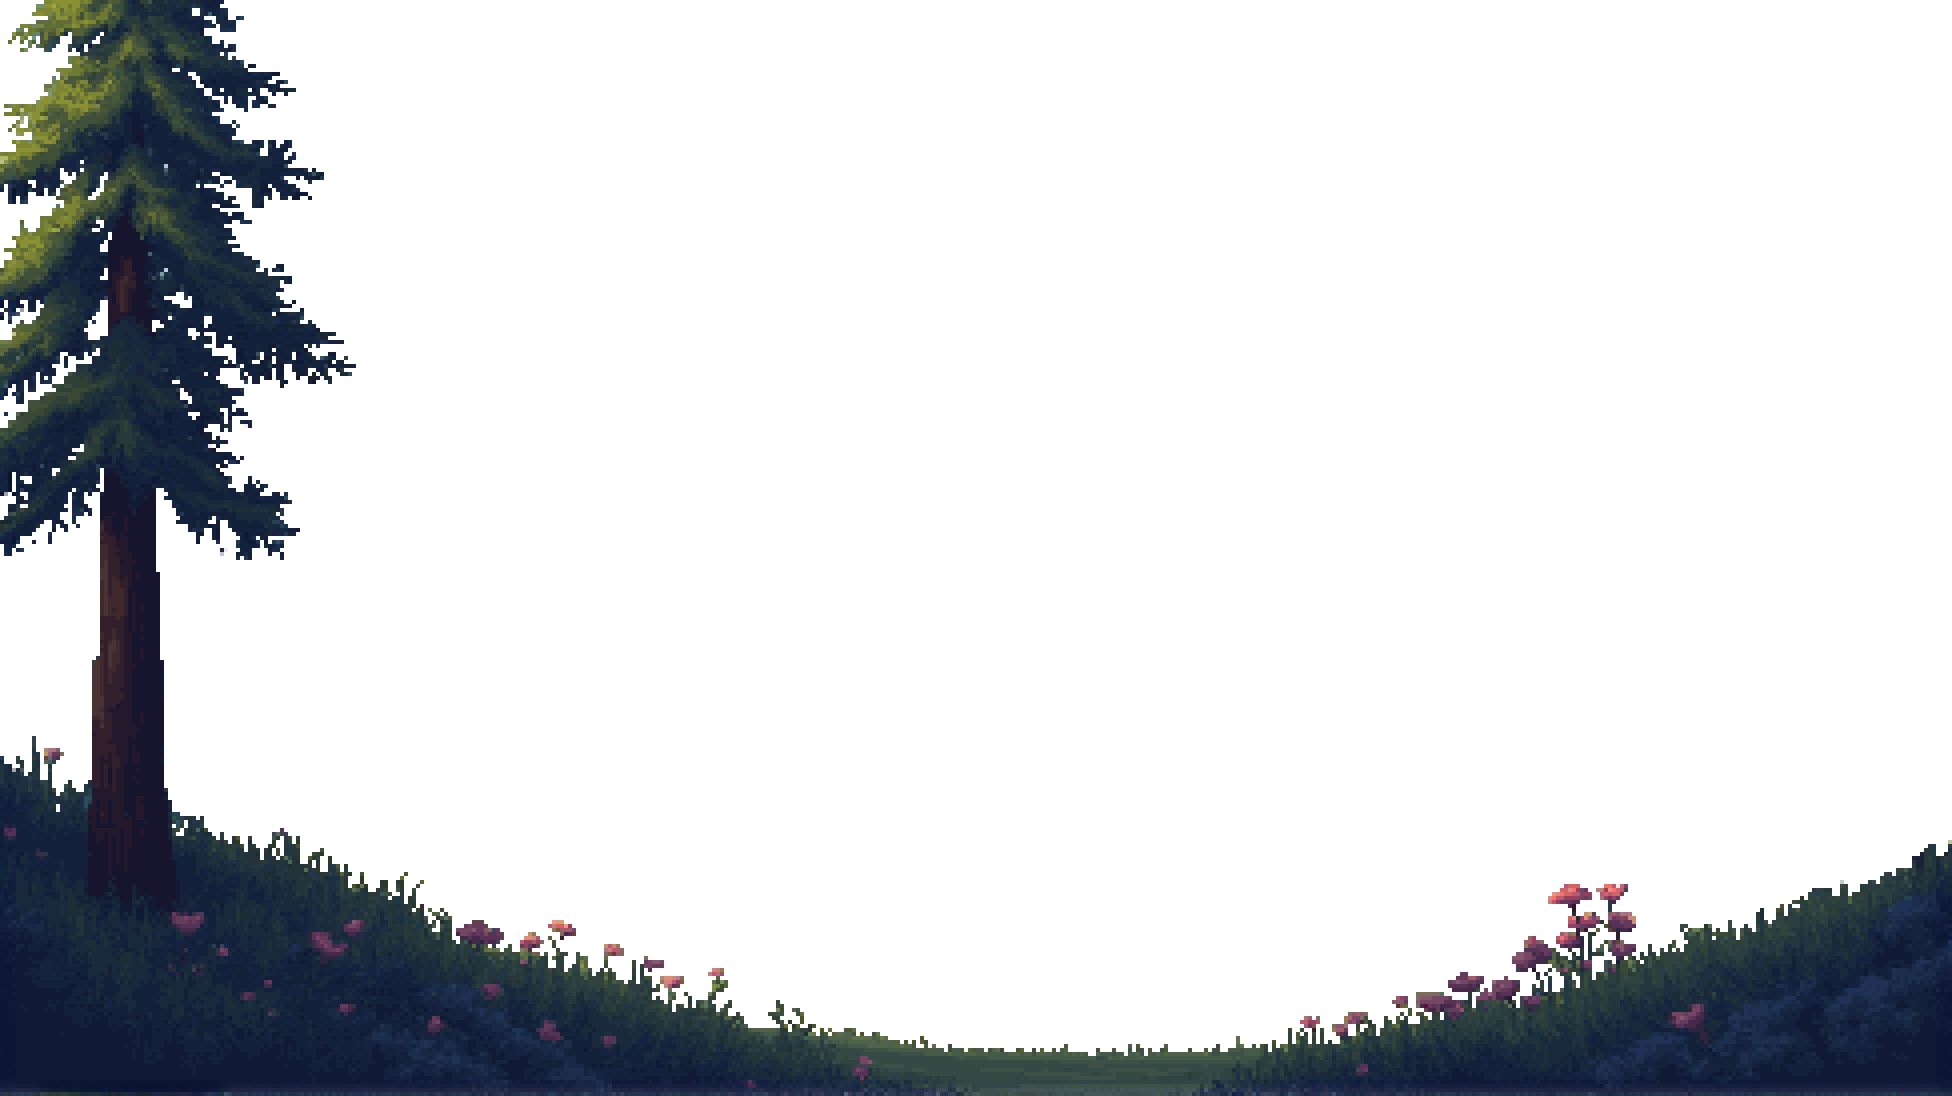
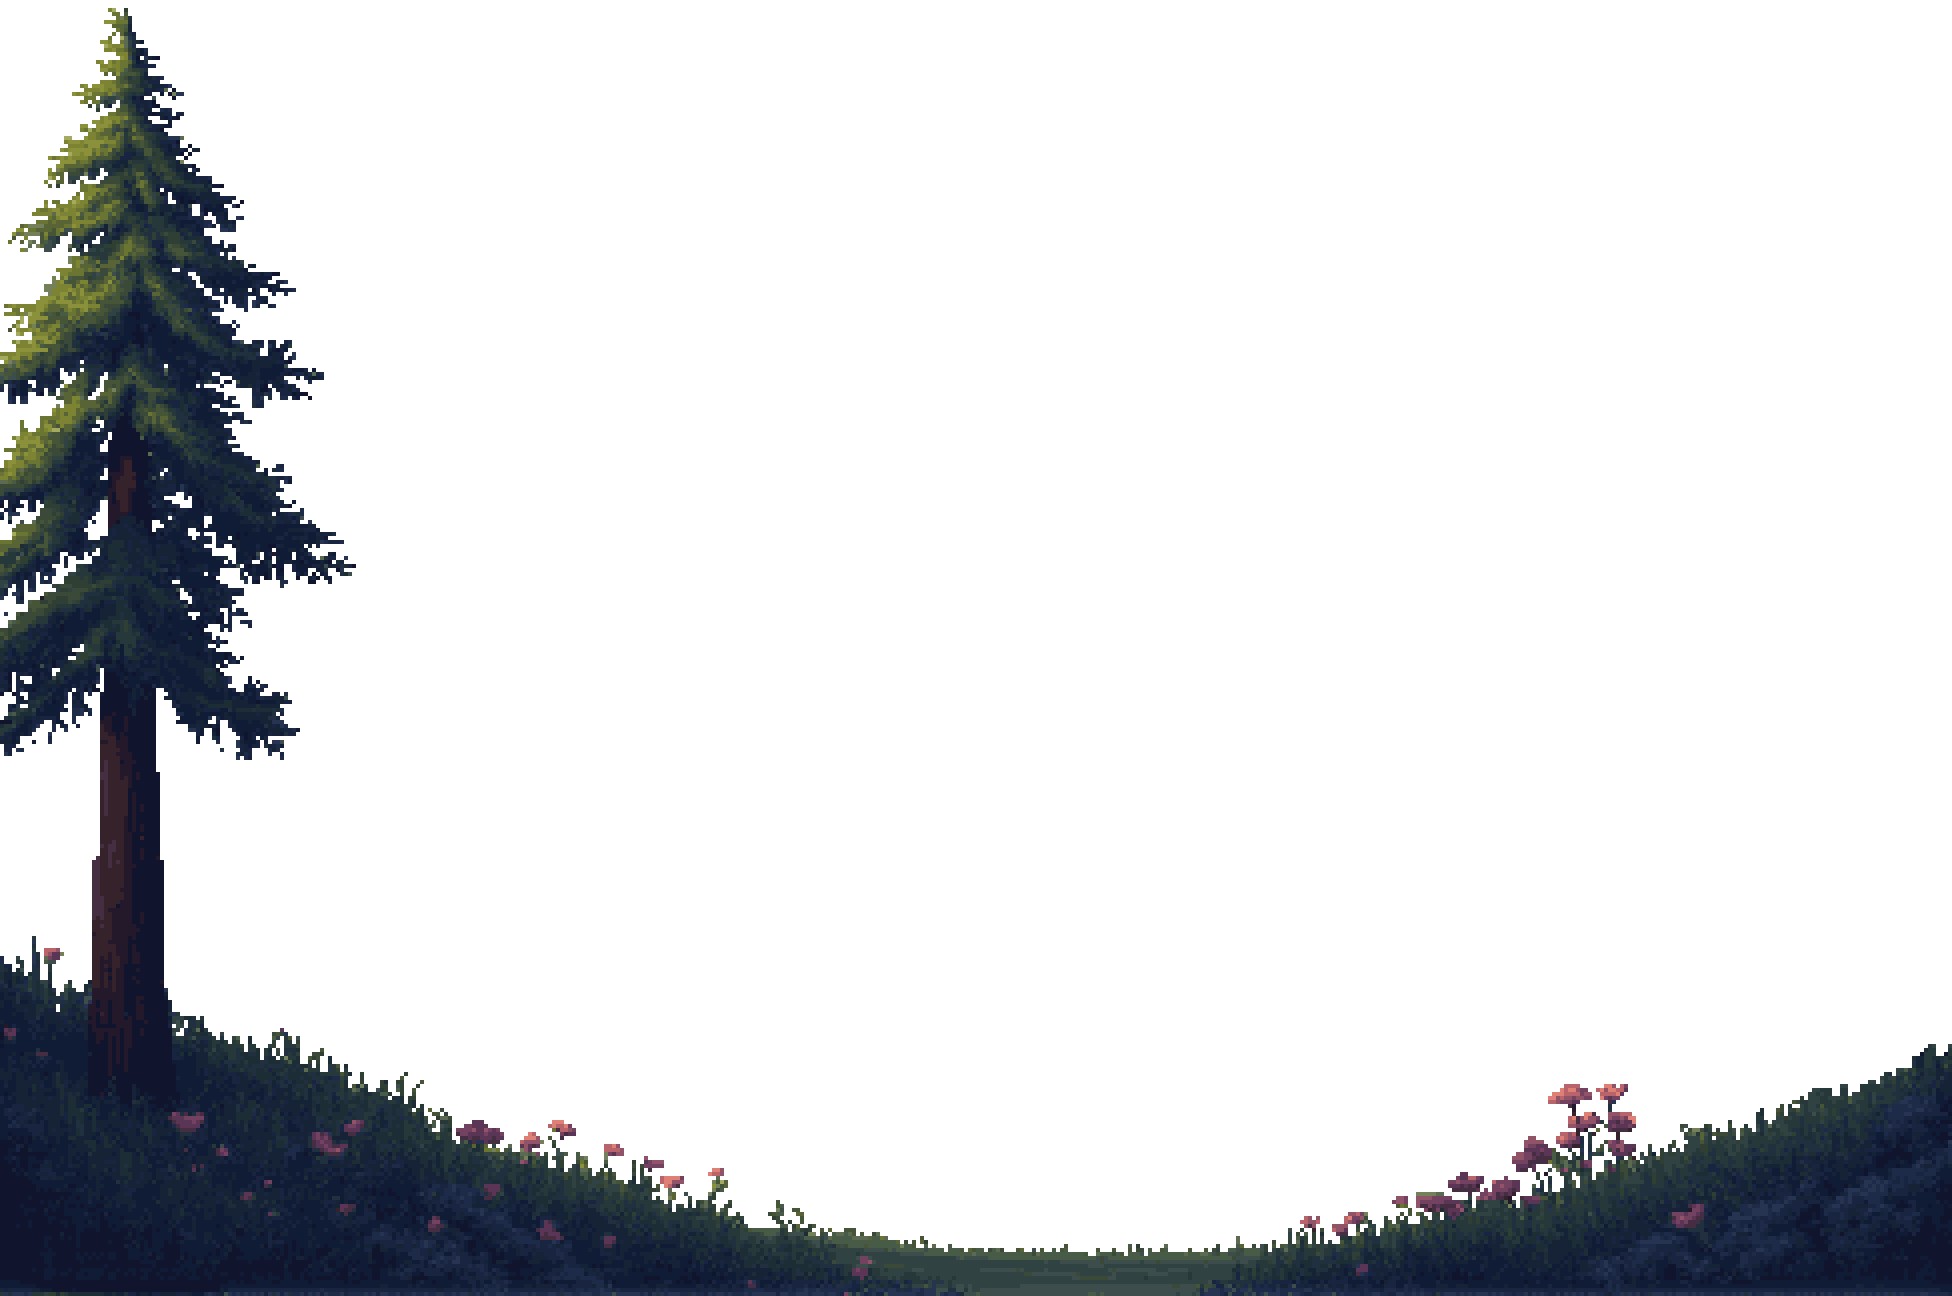
MAIN PAGE DONE WHUU!!!!

diff --git a/game-ui/src/scenes/MainMenu.tsx b/game-ui/src/scenes/MainMenu.tsx
@@ -5,6 +5,8 @@ import { Logo, Background, MenuButton } from "@/components/menu";
 import { useGameManager } from "@/hooks/useGameManager";
 
 export default function MainMenu() {
+    const [canClick, setCanClick] = React.useState(false);
+
     // GSAP animation
     const container = useRef(null);
     const logoRef = useRef(null);
@@ -15,21 +17,29 @@ export default function MainMenu() {
             delay: 1,
             defaults: { ease: "power2", duration: 1.3 },
         })
-            .from(
+            .fromTo(
                 logoRef.current,
                 {
                     scale: 0.9,
-                    opacity: 0,
+                    ease: "power1",
+                },
+                {
+                    scale: 1,
+                    opacity: 1,
                     ease: "power1",
                 },
                 0
             )
-            .from(
+            .fromTo(
                 buttonsContainerRef.current,
                 {
                     delay: 0.2,
                     y: 50,
-                    opacity: 0,
+                },
+                {
+                    y: 0,
+                    opacity: 1,
+                    onComplete: () => setCanClick(true),
                 },
                 0
             );
@@ -38,6 +48,7 @@ export default function MainMenu() {
     // Click handlers
     const { setScene } = useGameManager();
     const handleStartAdventure = () => {
+        if (!canClick) return;
         setScene("loadingproblem");
     };
 
@@ -50,18 +61,21 @@ export default function MainMenu() {
             >
                 <div
                     ref={logoRef}
-                    className="flex justify-center items-center w-full"
+                    className="flex justify-center items-center w-full select-none opacity-0"
                 >
                     <Logo className="w-[40%]" />
                 </div>
                 <div
                     ref={buttonsContainerRef}
-                    className="mt-10 flex flex-col gap-10 justify-center items-center"
+                    className="mt-10 flex flex-col gap-10 justify-center items-center opacity-0"
                 >
-                    <MenuButton onClick={handleStartAdventure}>
+                    <MenuButton
+                        onClick={handleStartAdventure}
+                        canClick={canClick}
+                    >
                         Start Adventure
                     </MenuButton>
-                    <MenuButton>Character</MenuButton>
+                    <MenuButton canClick={canClick}>Character</MenuButton>
                 </div>
             </div>
         </>

diff --git a/game-ui/src/components/menu/Background.tsx b/game-ui/src/components/menu/Background.tsx
@@ -54,29 +54,24 @@ export default function Background() {
             : [];
 
         let duration = 1;
-        let delay = 0.2;
 
         for (let image of images) {
             if (image.dataset.animate === "false") continue;
             gsap.to(image, {
                 top: image.dataset.top ? image.dataset.top : "50%",
                 duration: duration,
-                delay: delay,
-                ease: "power4.out",
+                ease: "power2.out",
+                onComplete: () => {
+                    const event = new CustomEvent("enableParallax");
+                    window.dispatchEvent(event);
+                },
             });
-            duration += 0.19;
-            delay += 0.1;
-
-            gsap.delayedCall(duration + delay, () => {
-                // enable parallax after animations complete
-                const event = new CustomEvent("enableParallax");
-                window.dispatchEvent(event);
-            });
+            duration += 0.3; // makes each image animate a bit later
         }
     }, [layers]);
 
     const parallaxStyle = "absolute left-1/2 -translate-x-1/2 -translate-y-1/2";
-    const layerOffset = "top-[160%]"; // epic reveal animation
+    const layerOffset = "top-[170%]"; // epic reveal animation
 
     return (
         <div
@@ -154,16 +149,18 @@ export default function Background() {
             <Image
                 className={`${parallaxStyle} ${layerOffset} min-w-[1952px]`}
                 data-speed="0.03"
+                data-top="40.5%"
                 src="/main-bg/trees.png"
                 alt="1"
                 width={1952}
-                height={1096}
+                height={1296}
                 unoptimized
             />
             {/* Sun lens*/}
             <Image
-                className={`${parallaxStyle} top-[55%] min-w-[105%] mix-blend-screen opacity-90`}
+                className={`${parallaxStyle} min-w-[105%] mix-blend-screen opacity-90`}
                 data-speed="0.015"
+                data-animate="false"
                 src="/main-bg/sun.png"
                 alt="sun"
                 width={1920}

diff --git a/game-ui/src/components/menu/MenuButton.tsx b/game-ui/src/components/menu/MenuButton.tsx
@@ -7,14 +7,22 @@ const pixelFont = Jacquard_12({
 
 interface MenuButtonProps {
     children: React.ReactNode;
+    canClick?: boolean;
     className?: string;
     onClick?: () => void;
 }
 
-export default function MenuButton({ children, className, onClick }: MenuButtonProps) {
+export default function MenuButton({
+    children,
+    canClick,
+    className,
+    onClick,
+}: MenuButtonProps) {
     return (
         <button
-            className={`text-[#000000] text-outline text-7xl w-96 hover:ring-2 px-6 py-3 border-2 border-[#241812] hover:ring-yellow-300 rounded-md bg-black/40 hover:bg-black/60 transition transform hover:scale-105 active:scale-95 shadow-md backdrop-blur-sm ${pixelFont.className} ${className}`}
+            className={`text-[#000000] text-outline text-7xl w-96 hover:ring-2 px-6 py-3 border-2 border-[#241812] hover:ring-yellow-300 rounded-md bg-black/40 hover:bg-black/60 transition transform hover:scale-105 shadow-md backdrop-blur-sm ${
+                pixelFont.className
+            } ${className} ${canClick && "active:scale-95"}`}
             onClick={onClick}
         >
             {children}

diff --git a/game-ui/src/scenes/LoadingProblem.tsx b/game-ui/src/scenes/LoadingProblem.tsx
@@ -1,5 +1,7 @@
 import React, { useEffect, useRef } from "react";
 
 export default function LoadingProblem() {
+    const images = "/loading/**"
+
     return <div>LoadingProblem</div>;
 }
